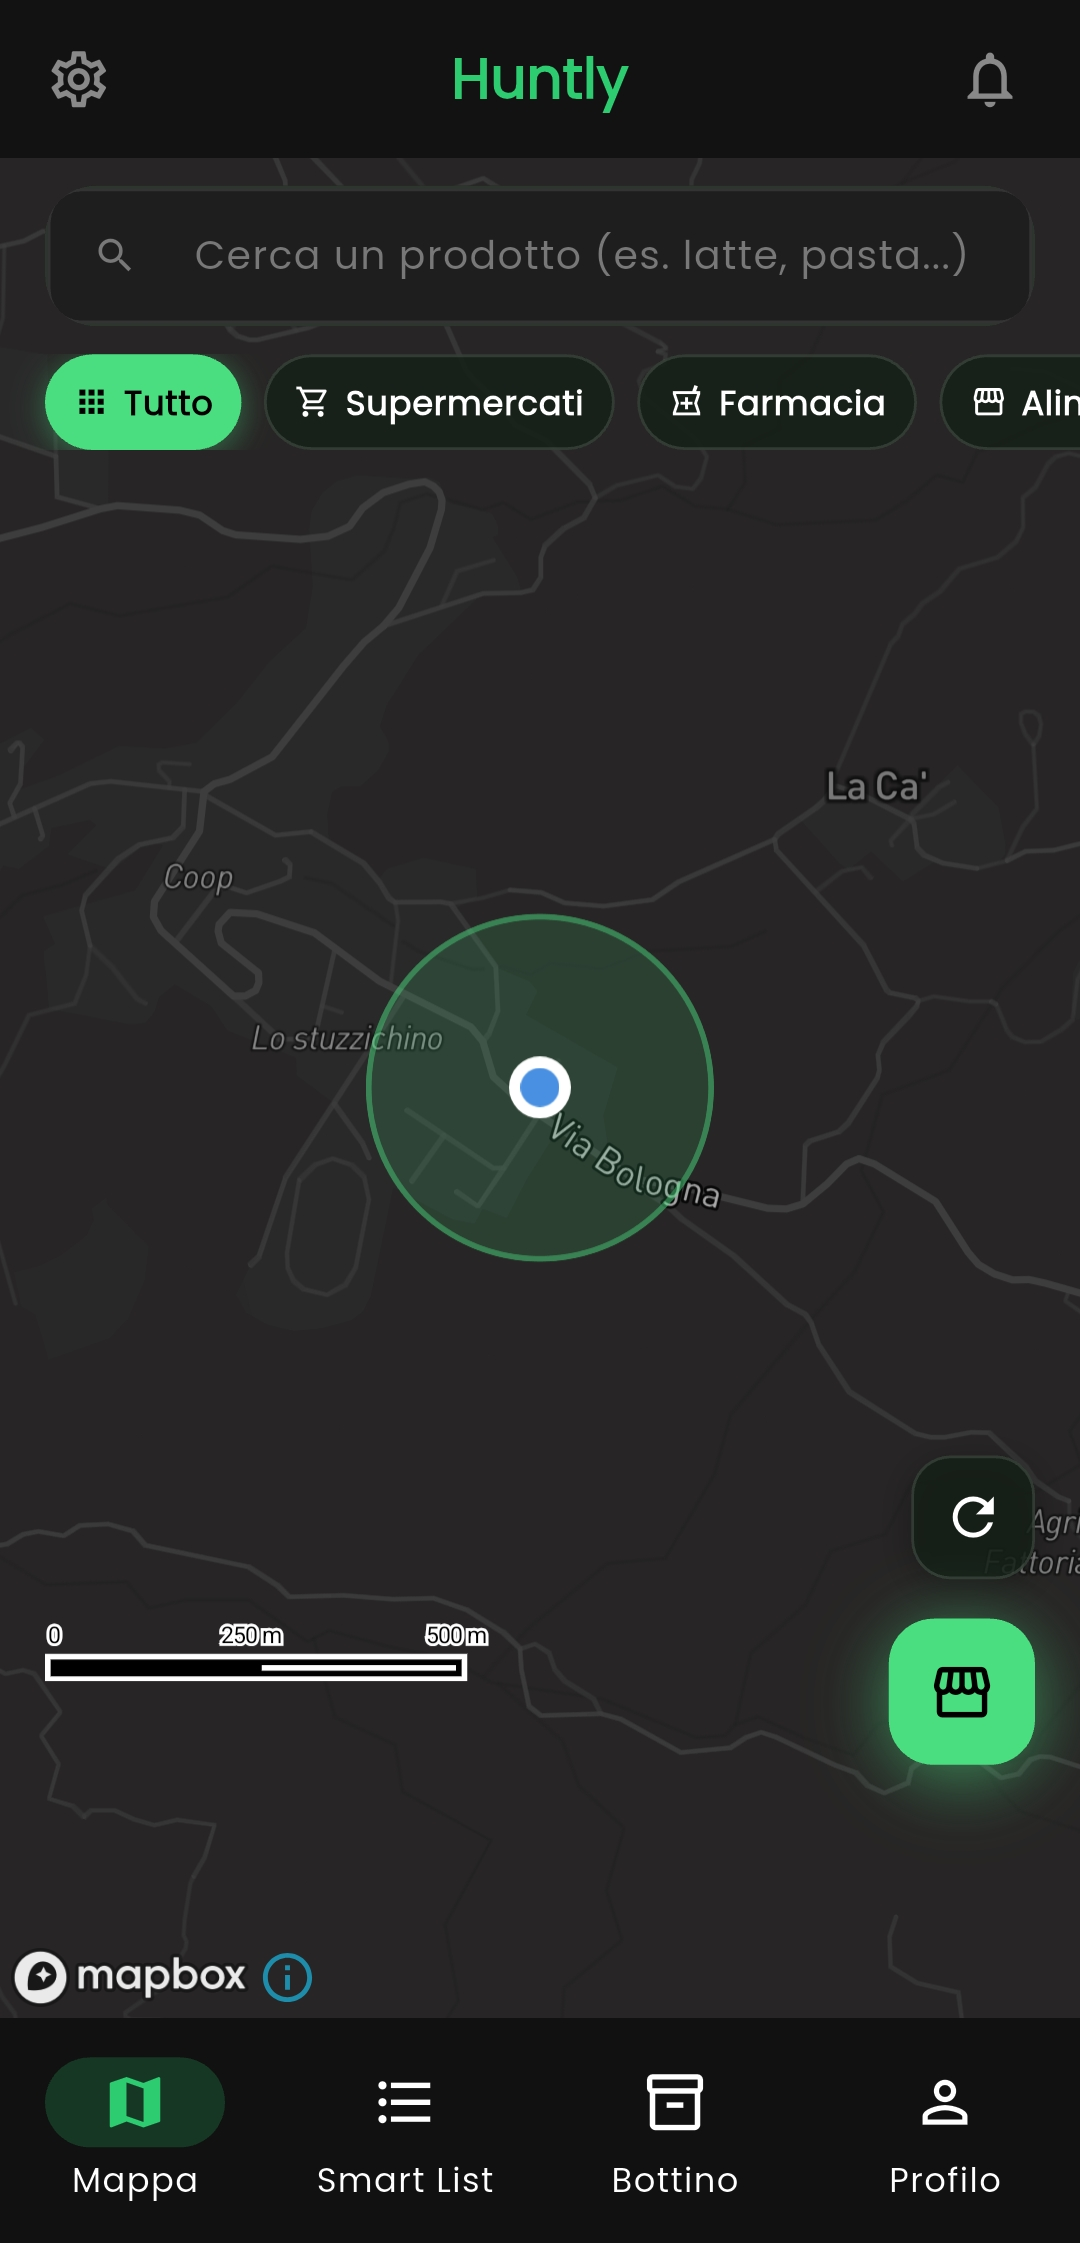
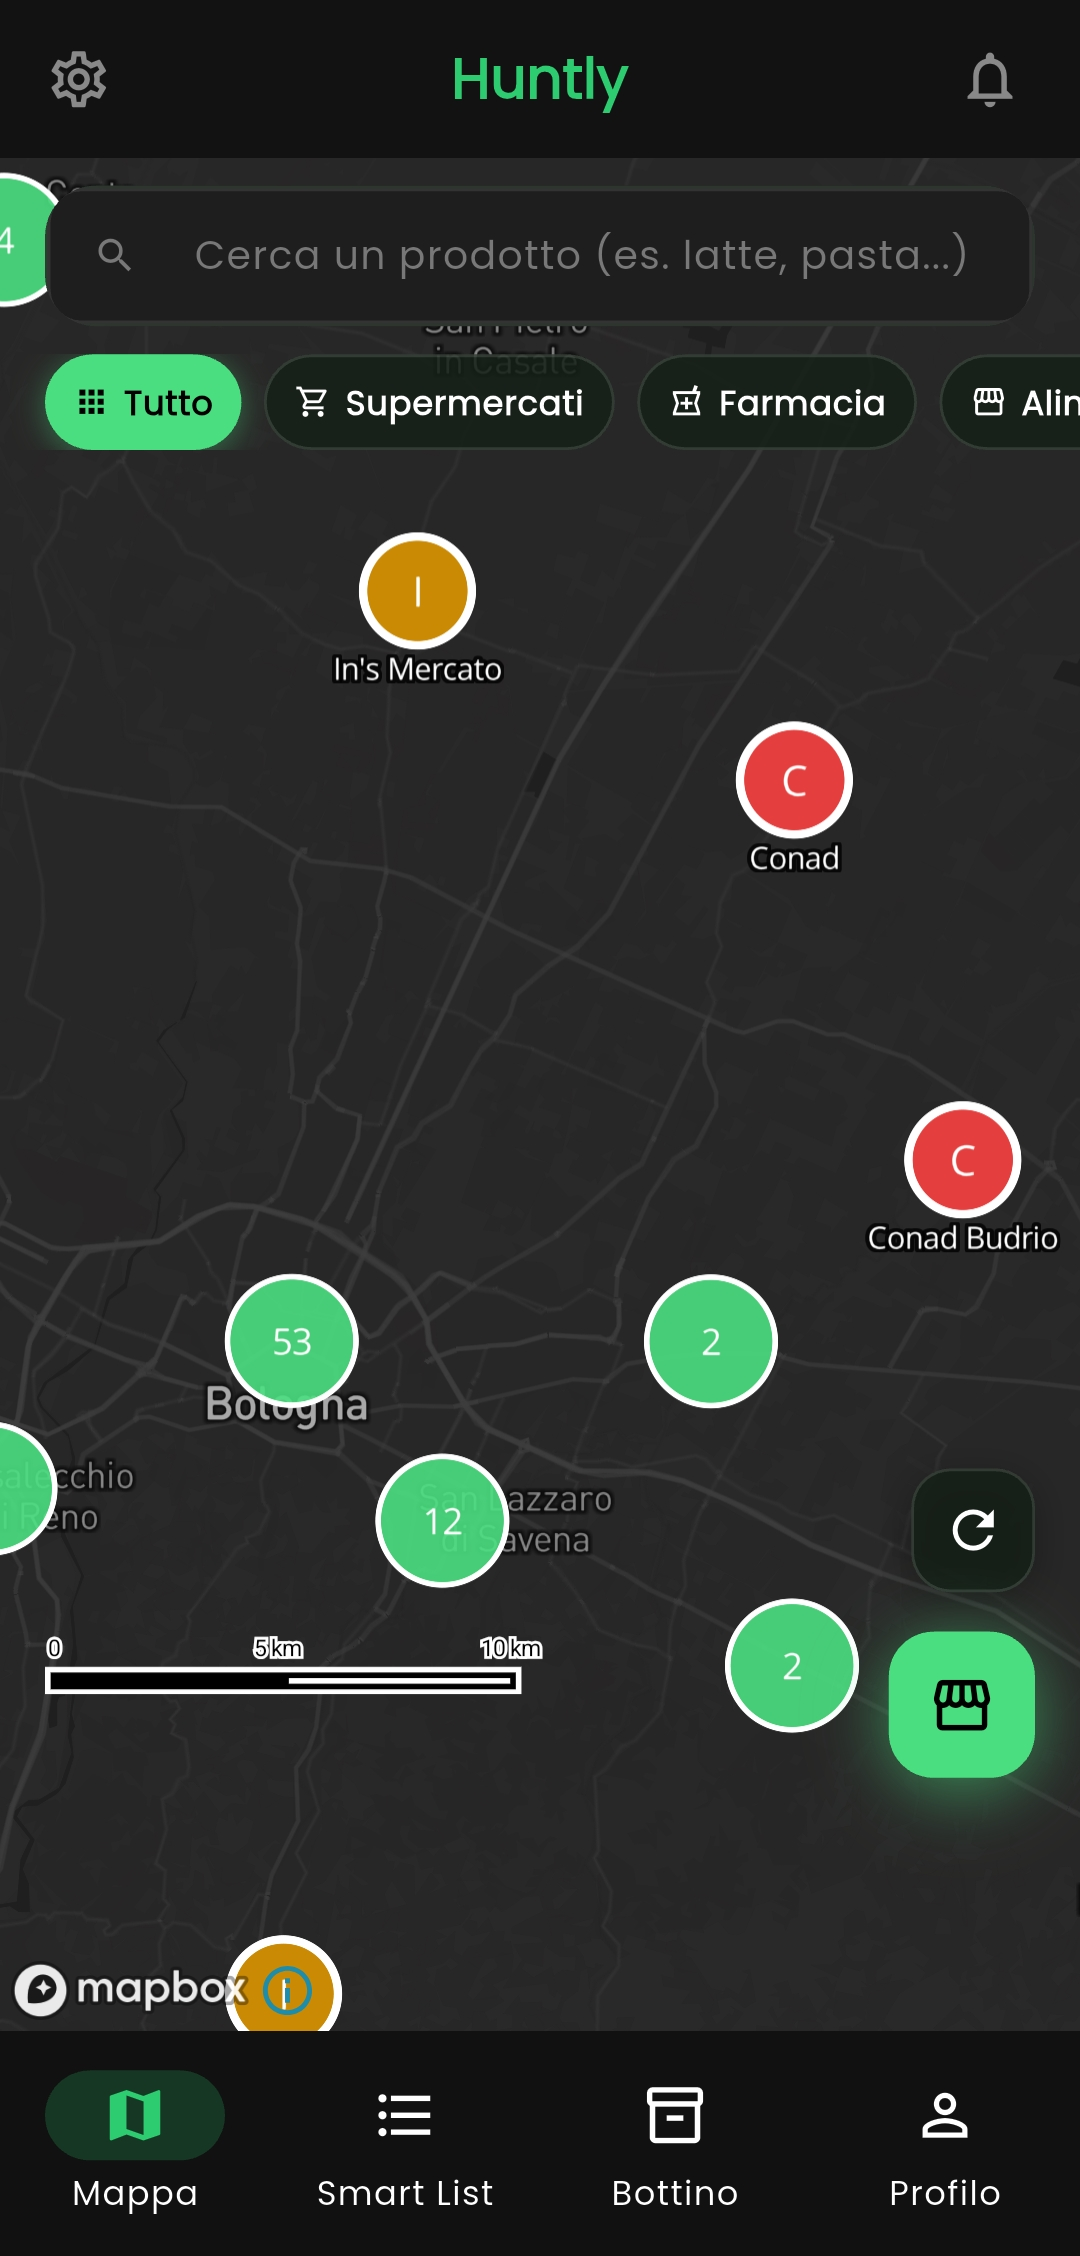
Final screenshots: Bologna map clusters, saved deals with pipeline crops, gamification

diff --git a/assets/README.md b/assets/README.md
@@ -1,22 +1,10 @@
 # Screenshots — stato
 
-✅ Già presenti:
-- `01_map.jpg` — mappa (zona San Benedetto; DA SOSTITUIRE con versione su Bologna, vedi sotto)
-- `04_profile_gamification.jpg` — profilo con livelli/XP/badge ✔ definitivo
+✅ Completi e montati nel README:
+- `01_map.jpg` — mappa Bologna con cluster e conteggi negozi
+- `02_saved_deals.jpg` — bottino con offerte salvate, risparmio e ritagli immagine dal volantino
+- `04_profile_gamification.jpg` — profilo con livelli/XP/badge
 
-❌ Mancanti — da catturare **con posizione simulata su Bologna centro** (dove ci sono i volantini e le 623k offerte; a San Benedetto l'app è vuota):
-- `02_flyer_deck.jpg` — deck copertine volantini ("Sfoglia offerte")
-- `03_offer_swipe.jpg` — card offerta con prodotto e prezzo ben visibili
-- `01_map.jpg` (ri-cattura) — mappa con pin dei negozi e conteggi offerte
+Facoltativi (se mai si vogliono aggiungere): deck copertine volantini, card offerta in swipe.
 
-## Come simulare la posizione su Bologna
-
-**Opzione A — sul telefono (S24):** Impostazioni → Opzioni sviluppatore → "Seleziona app posizione fittizia" → installare un'app tipo "Fake GPS Location" dal Play Store → impostare Bologna centro (44.494, 11.343) → aprire Huntly.
-
-**Opzione B — emulatore Android Studio:** ⋮ Extended controls → Location → cercare Bologna → Set location → avviare l'app.
-
-Dopo la cattura: copiare qui i file con i nomi esatti, poi:
-```
-git add assets && git commit -m "Add app screenshots" && git push
-```
-Questo file si può cancellare quando gli screenshot sono completi.
+Il repo è pronto per il push. Questo file si può cancellare.

diff --git a/README.md b/README.md
@@ -31,9 +31,11 @@ A cross-platform mobile app that makes saving money feel like a treasure hunt:
 
 ### Screenshots
 
-| Map | Flyer deck | Offer swipe | Gamification |
-|---|---|---|---|
-| ![map](assets/01_map.jpg) | ![deck](assets/02_flyer_deck.jpg) | ![swipe](assets/03_offer_swipe.jpg) | ![profile](assets/04_profile_gamification.jpg) |
+| Map (live store clusters) | Saved deals — leaflet-cropped visuals | Gamification |
+|---|---|---|
+| ![map](assets/01_map.jpg) | ![deals](assets/02_saved_deals.jpg) | ![profile](assets/04_profile_gamification.jpg) |
+
+*The product images in the middle screenshot are automatic crops from the original paper leaflet — output of the ingestion pipeline described below.*
 
 ## How the data gets in: the ingestion pipeline
 